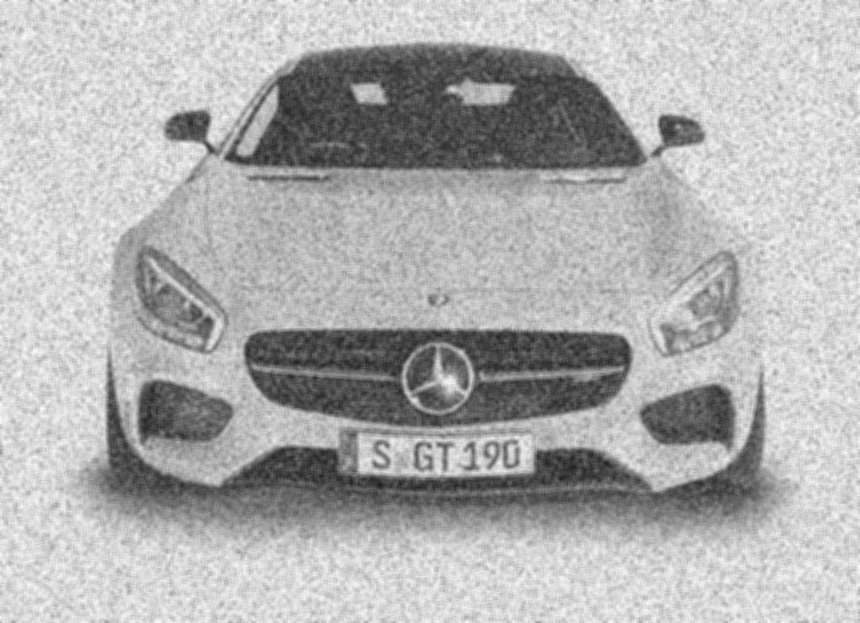
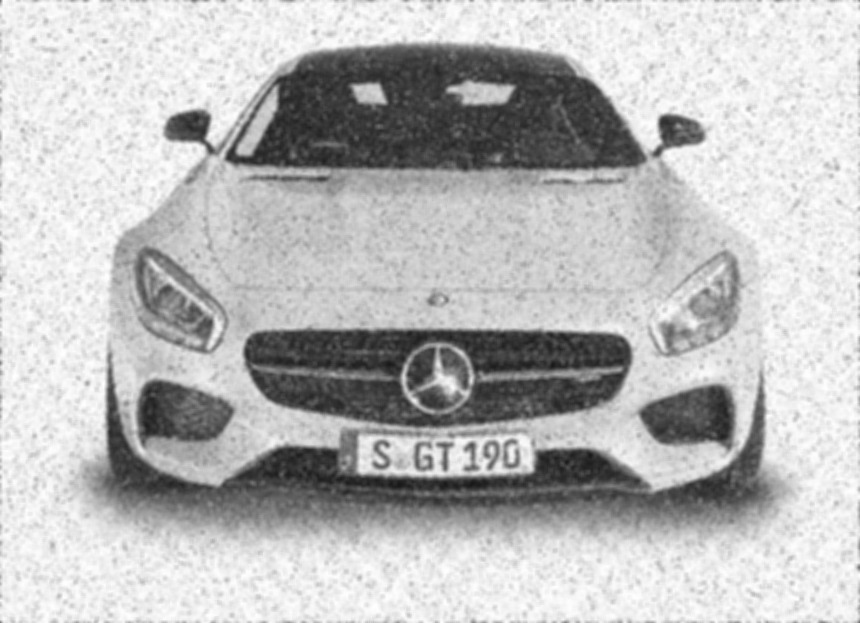
COMPLETED: GetPlates.m

Changed region(s): [[0.0, 0.0, 1.0, 1.0], [0.6047, 0.244, 0.6349, 0.2745]]

diff --git a/ProyectoFinal/GetColor.m b/ProyectoFinal/GetColor.m
@@ -1,16 +1,16 @@
 % Create a function named GetColor which receives an image name and returns the color of the image.
 % The function should return the color of the image.
 function [color] = GetColor(image)
-    image = strcat('./Images/', image);
-    % Read the image.
-    image = imread(image);
-    % Convert the image to RGB from gray scale.
-    image = rgb2hsv(image);
+    % image = strcat('./Images/', image);
+    % % Read the image.
+    % image = imread(image);
+    % % Convert the image to RGB from gray scale.
+    % image = rgb2hsv(image);
     
-    % Display the image.
-    figure;
-    imshow(image);
+    % % Display the image.
+    % figure;
+    % imshow(image);
 
-    color = [0 0 0]
+    color = [0 0 0];
 
 end

diff --git a/ProyectoFinal/CleanImage.m b/ProyectoFinal/CleanImage.m
@@ -4,13 +4,13 @@ function [image] = CleanImages(image)
     image=double(rgb2gray(image));
     % figure, imshow(image, []); title('Original Image');
 
-    img=medfilt2(image);
+    image=medfilt2(image);
     % figure, imshow(img, []); title('Median Filtered Image');
 
-    img=imgaussfilt(image, 4, 'FilterSize', [5 5]);
+    image=imgaussfilt(image, 4, 'FilterSize', [5 5]);
     % figure, imshow(img, []); title('Gaussian Filtered Image');
 
     % Return image to rgb format
-    image=uint8(img);
+    image=uint8(image);
 
 end    

diff --git a/ProyectoFinal/GetPlates.m b/ProyectoFinal/GetPlates.m
@@ -1,0 +1,9 @@
+% Create a function GetPlates which receives a list of images names and returns a list of plates.
+% The function should use OCR to extract the text from the images and return a list of plates.
+
+function [plates] = GetPlates(images)
+    for i = 1:length(images)
+        images{i} = strcat('./Images/' , images{i});
+
+    end
+end
